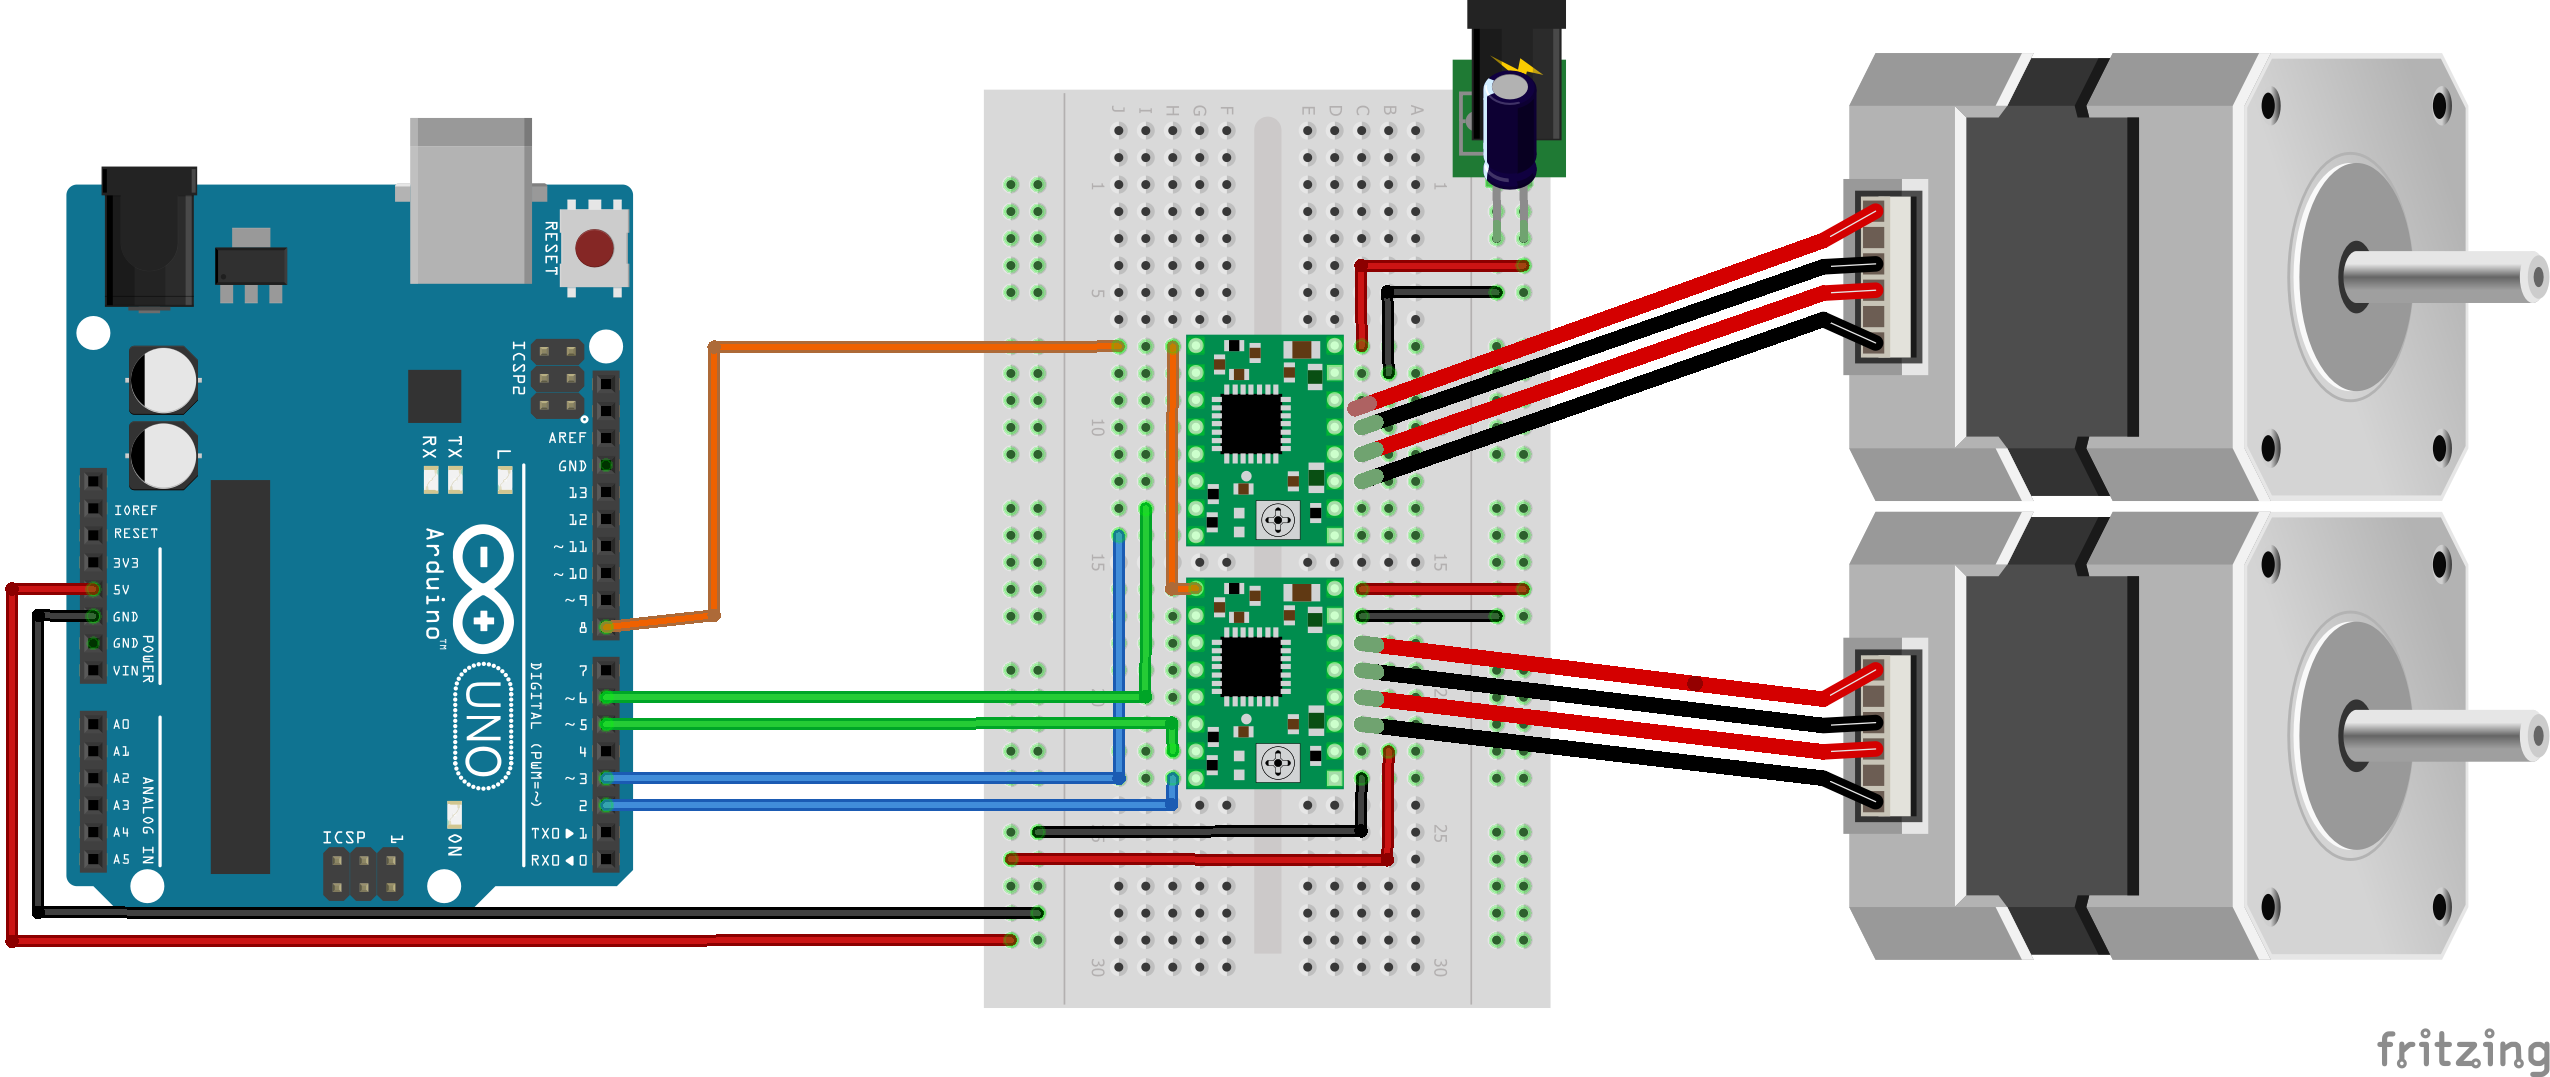
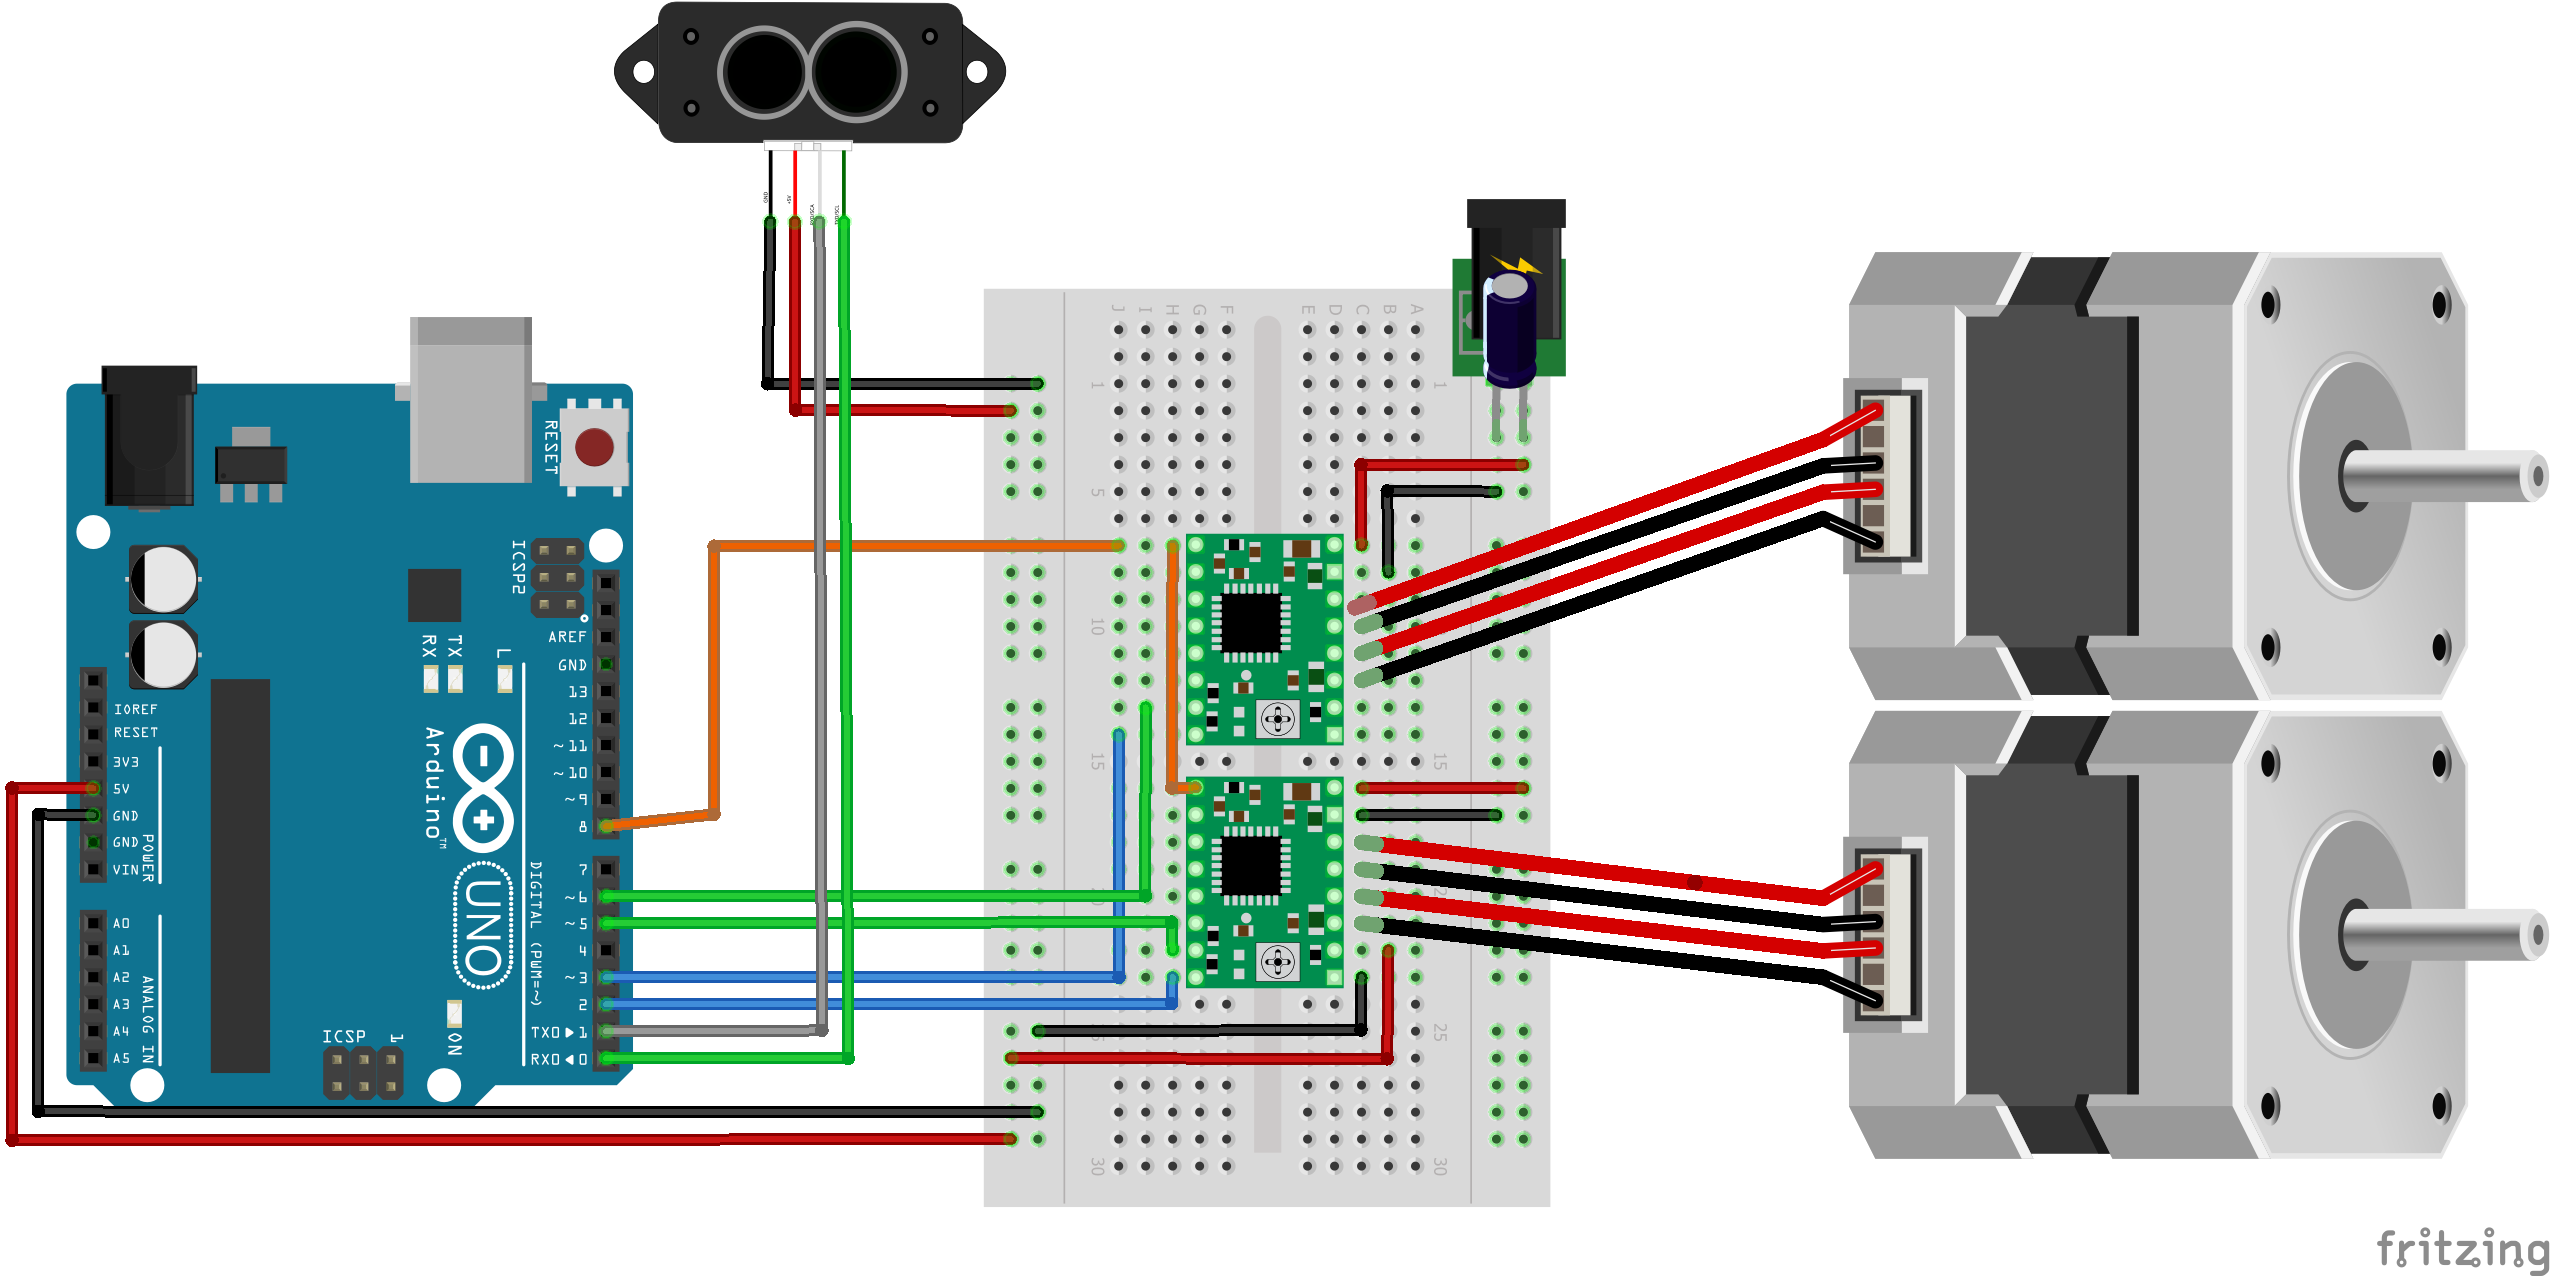
Fritzing update with TFmini-S fritzing model

diff --git a/README.md b/README.md
@@ -1,4 +1,4 @@
-# 3D LiDAR scanner with stepper motors
+# 3D LiDAR scanner v2 - With stepper motors
 
 This repository demonstrates a homemade 3D LiDAR scanner made out of a [Benewake TF-Mini](https://www.gotronic.fr/art-capteur-de-distance-lidar-tf-mini-27615.htm) LiDAR sensor and 2 stepper motors [NEMA17](). This scanner can produce 3D cloud point of spaces.
 The LiDAR sensor is fixed on one stepper arm with the help of a 3D printed bracket. This stepper is fixed to the second stepper arm through another bracket. 
@@ -23,13 +23,17 @@ The LiDAR sensor is fixed on one stepper arm with the help of a 3D printed brack
 - External power : 12V, 2A
 - (optional) Maker Beam aluminium profiles and hardware or other.
 
+!!!Check !!!
+
 ### Connection
 
 ![3DLidarScanner with stepper connections](https://github.com/CLICKBE/3DLidarScanner-v2/blob/main/fritzing/3DLidarScanner-v2-connections.png?raw=true)
 
+Note that this diagram replicates the use of the Arduino CNC Shield v3 by using the same pin to connect the two drivers.
+
 ### Library needed : 
-- TFMPlus : [https://github.com/budryerson/TFMini-Plus][(https://github.com/budryerson/TFMini-Plus). The library is not included in this git repository but is referenced in the platformio.init file and therefore should directly be downloaded by PlatformIO extension of VSCode.
-- SoftwareSerial : included into Arduino framework
+- TFMPlus : [https://github.com/budryerson/TFMini-Plus][(https://github.com/budryerson/TFMini-Plus). The library is not included in this git repository but is referenced in the [platformio.ini](https://github.com/CLICKBE/3DLidarScanner-v2/blob/main/platformio.ini) file and therefore should directly be downloaded by PlatformIO extension of VSCode when building the code.
+- SoftwareSerial : included in Arduino framework
 
 ### Scanner serial protocol
 Once the Arduino script is uploaded and running onto the Arduino Uno board, the scanner can be control through serial protocol at 115200 bauds. The following commands are available : 
@@ -43,7 +47,7 @@ Once the Arduino script is uploaded and running onto the Arduino Uno board, the 
    
 Once the scan is launched (through s or y), it performs the XYZ coordinates conversion and ouputs all of the data throught serial port in the following manner : 
 
-`x y z h_idx v_idx distance `
+`x y z h_idx v_idx distance`
 
 With : 
 - x : x coordinate in 3D space
@@ -58,7 +62,8 @@ With :
 The `stepperScanner-serial2CSV.py` python script establishes serial communication with the Arduino Uno used for the 3D Lidar scanner. Once the script is launched, it stores incoming data (`x y z h_idx v_idx distance`) into a csv file.
 
 Usage is as follows (one can use `python stepperScaneer-serial2CSV.py -h` to check on the available option arguments) : 
-    `python stepperScanner-serial2CSV.py -p YOUR_ARDUINO_SERIAL_PORT -b 115200 -f /your/filepath/to/the/data/storage.csv`
+
+`python stepperScanner-serial2CSV.py -p YOUR_ARDUINO_SERIAL_PORT -b 115200 -f /your/filepath/to/the/data/storage.csv`
 
 Once the script is launched, the serial commands described above can be used to control the scanner.
 
